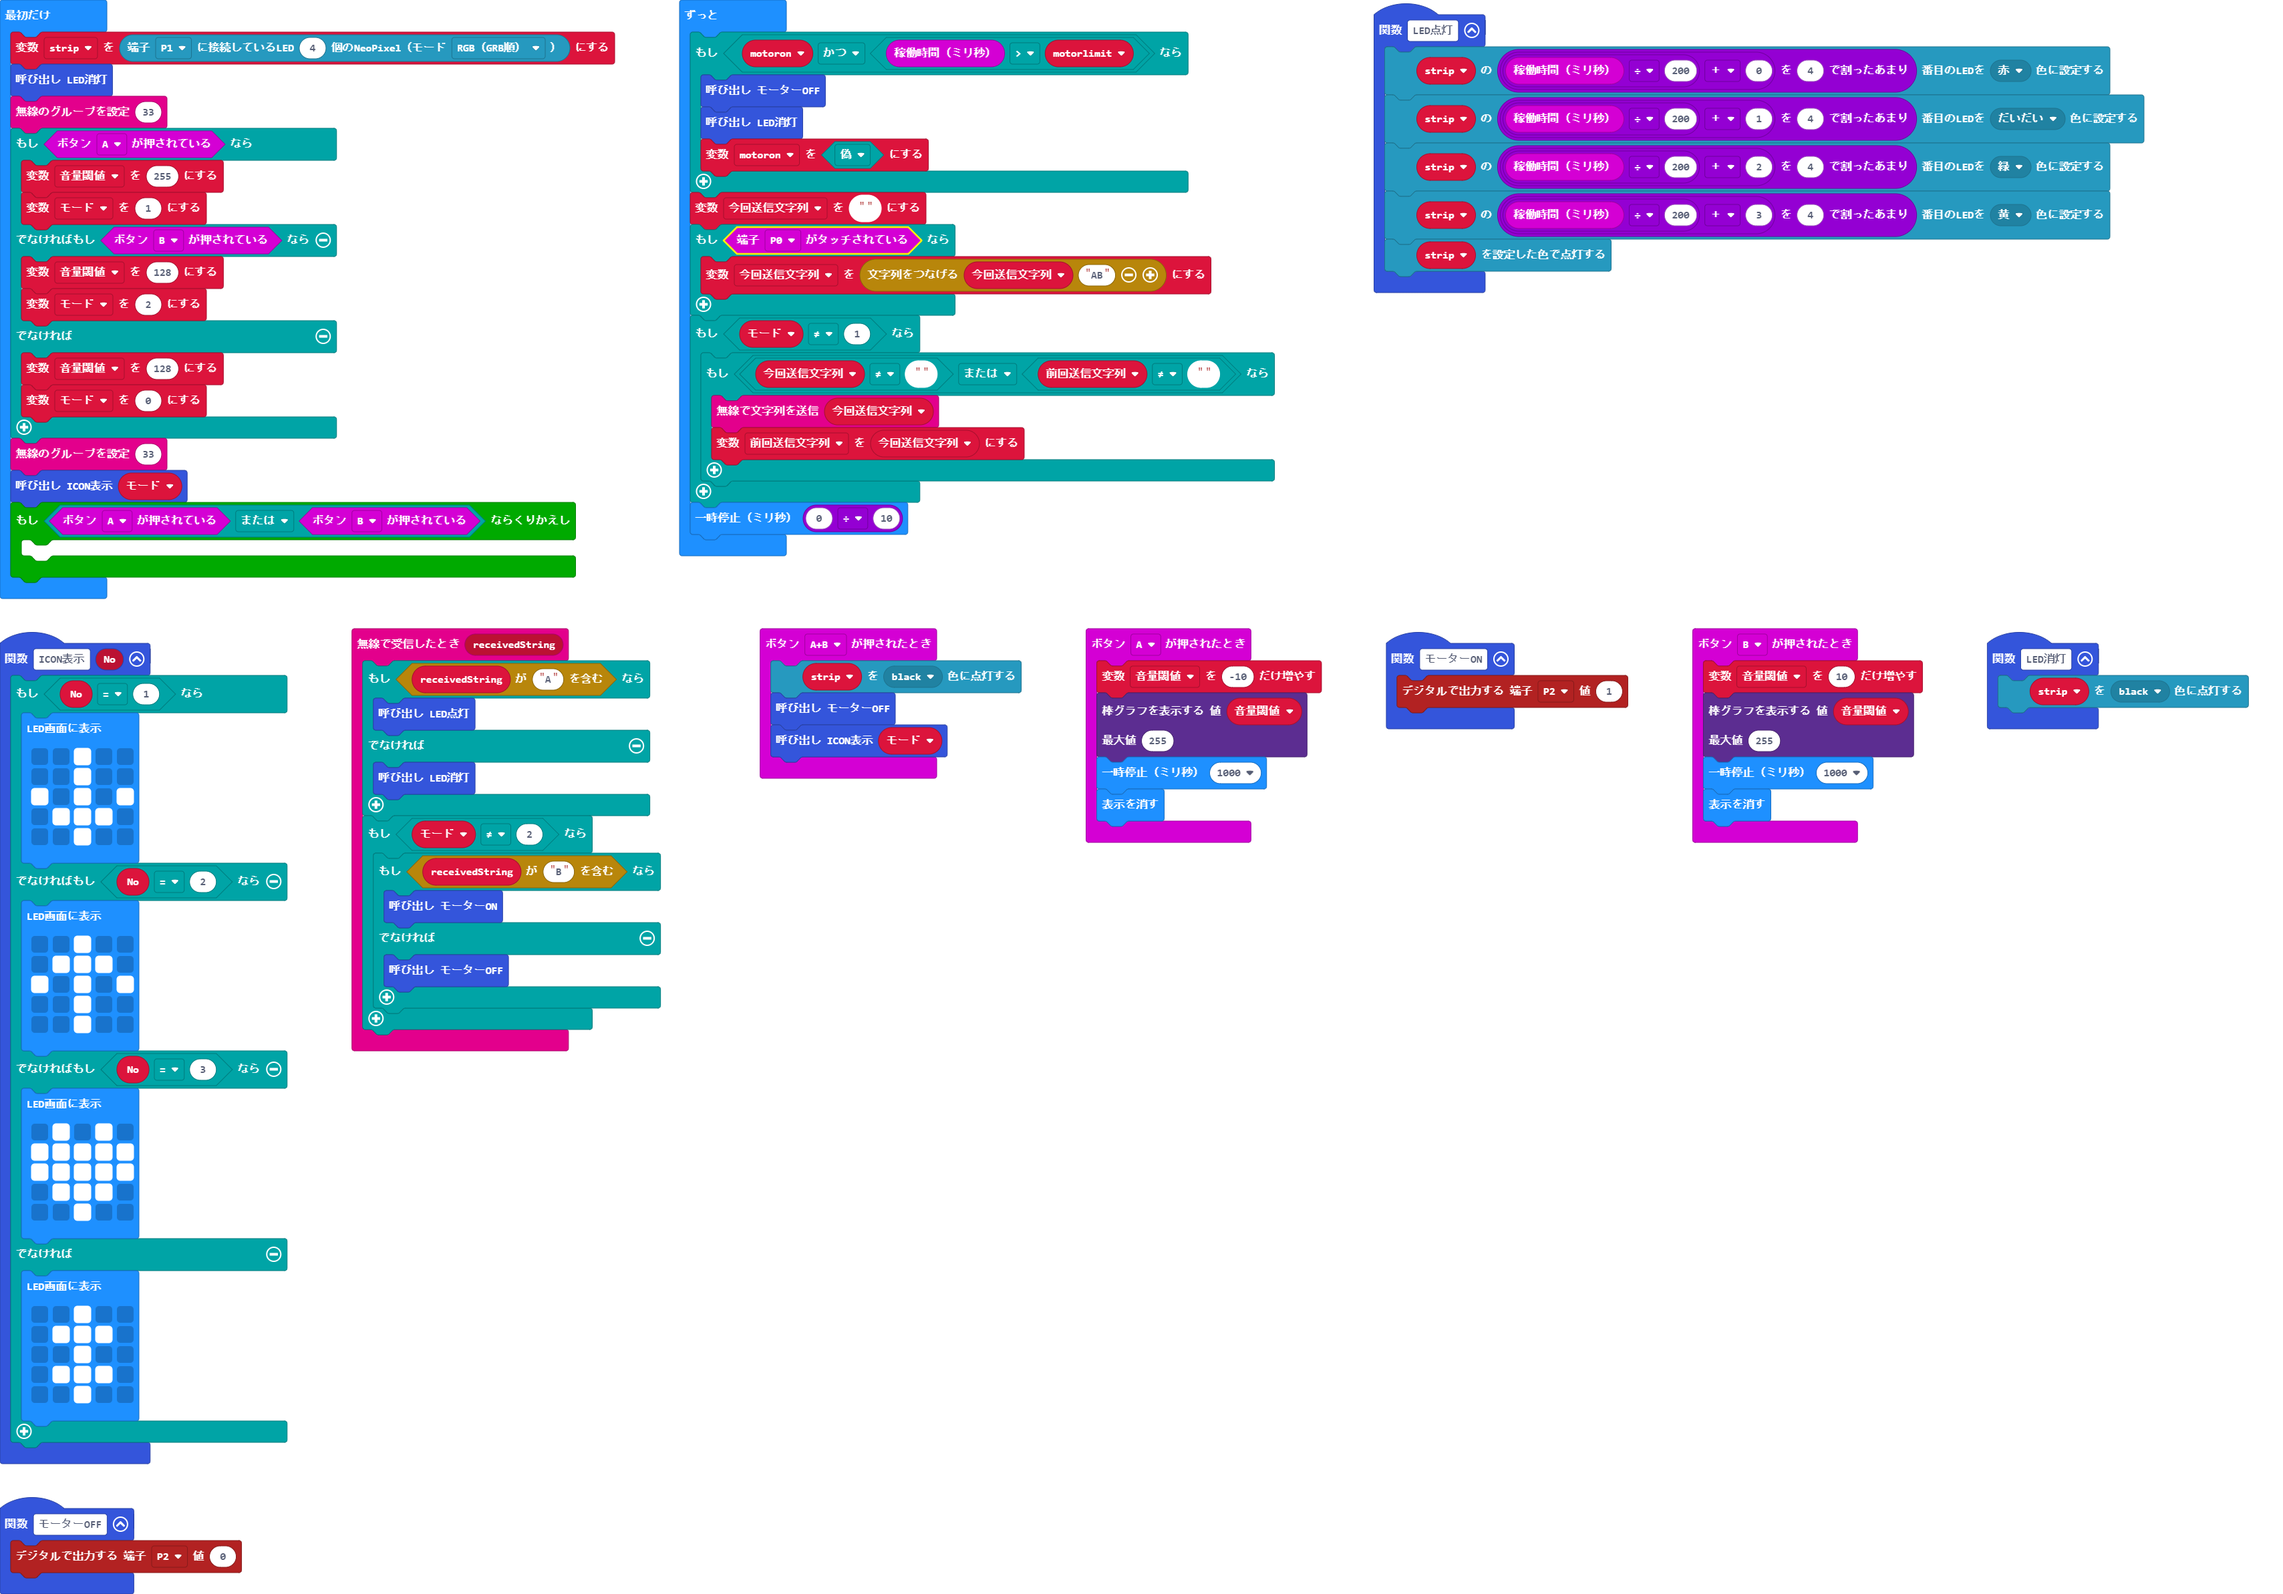
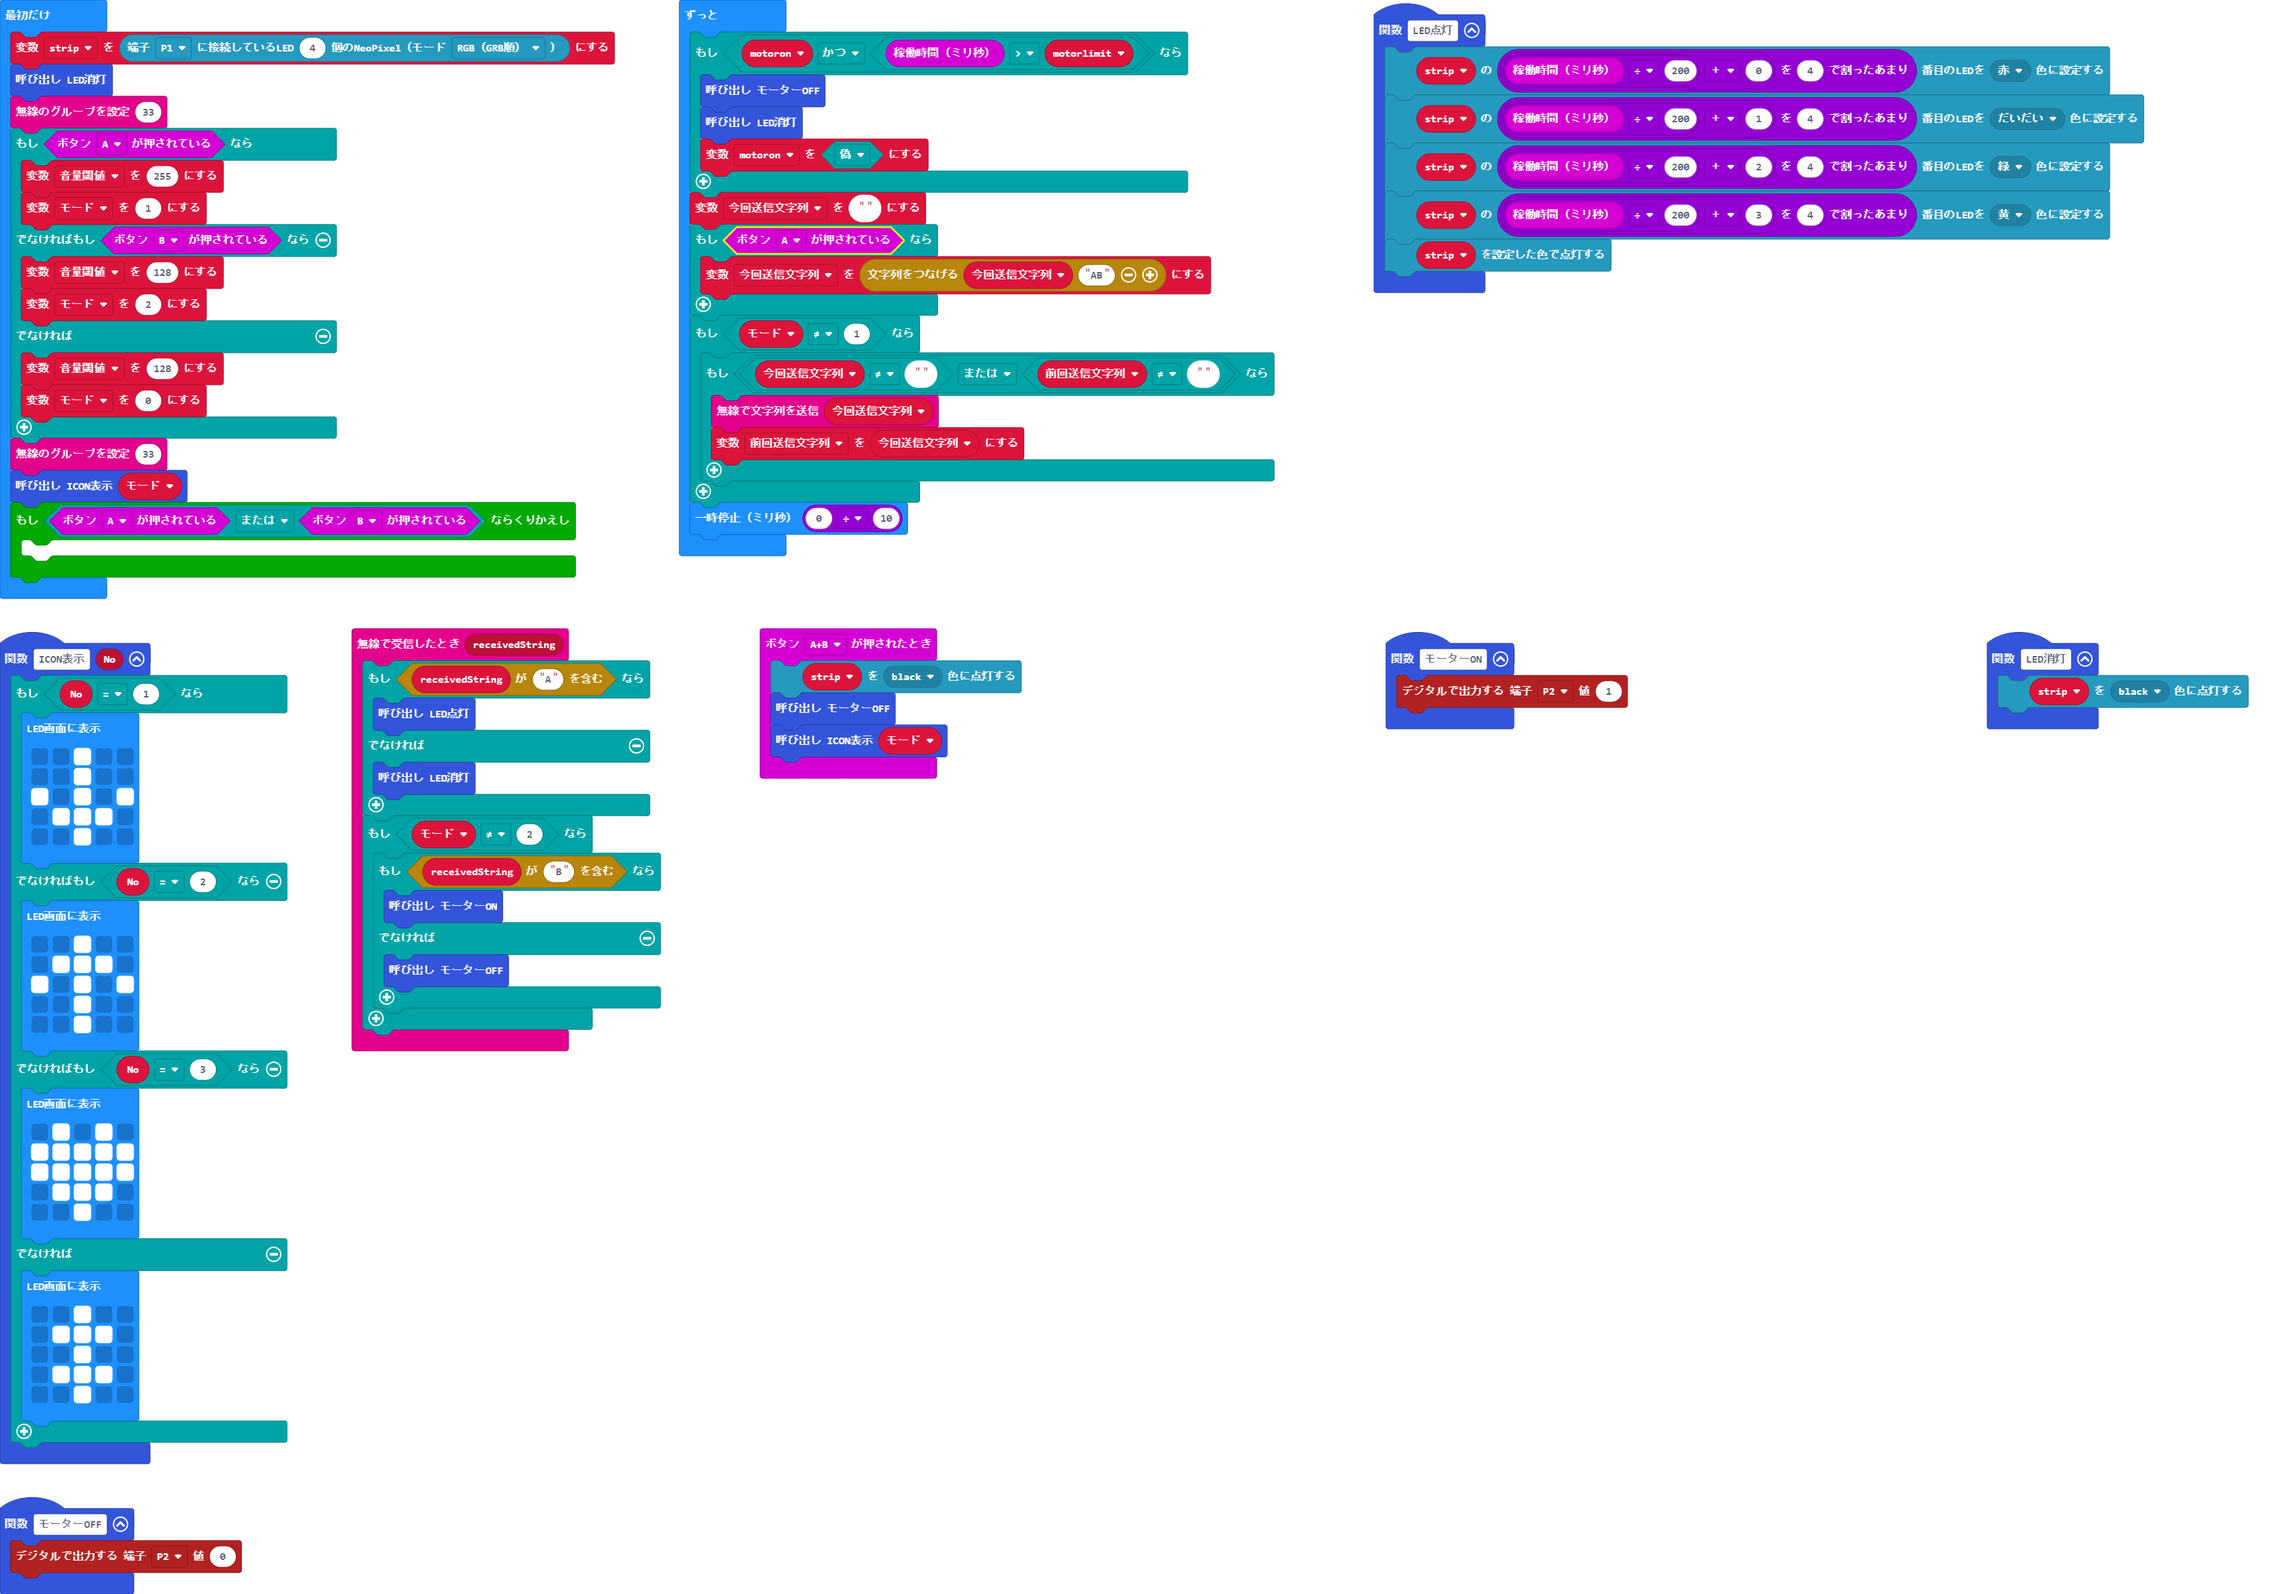
更新 main.blocks, main.ts

diff --git a/main.ts b/main.ts
@@ -36,15 +36,6 @@ function ICON表示 (No: number) {
             `)
     }
 }
-input.onButtonPressed(Button.A, function () {
-    音量閾値 += -10
-    led.plotBarGraph(
-    音量閾値,
-    255
-    )
-    basic.pause(1000)
-    basic.clearScreen()
-})
 function モーターON () {
     pins.digitalWritePin(DigitalPin.P2, 1)
 }
@@ -73,15 +64,6 @@ radio.onReceivedString(function (receivedString) {
             モーターOFF()
         }
     }
-})
-input.onButtonPressed(Button.B, function () {
-    音量閾値 += 10
-    led.plotBarGraph(
-    音量閾値,
-    255
-    )
-    basic.pause(1000)
-    basic.clearScreen()
 })
 function モーターOFF () {
     pins.digitalWritePin(DigitalPin.P2, 0)
@@ -118,7 +100,7 @@ basic.forever(function () {
         motoron = false
     }
     今回送信文字列 = ""
-    if (input.pinIsPressed(TouchPin.P0)) {
+    if (input.buttonIsPressed(Button.A)) {
         今回送信文字列 = "" + 今回送信文字列 + "AB"
     }
     if (モード != 1) {
